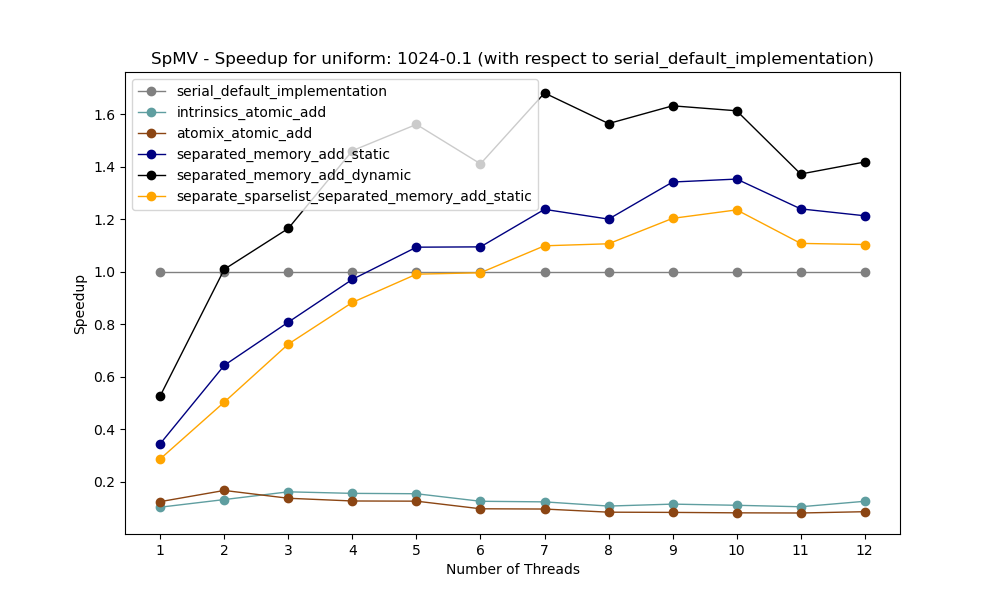
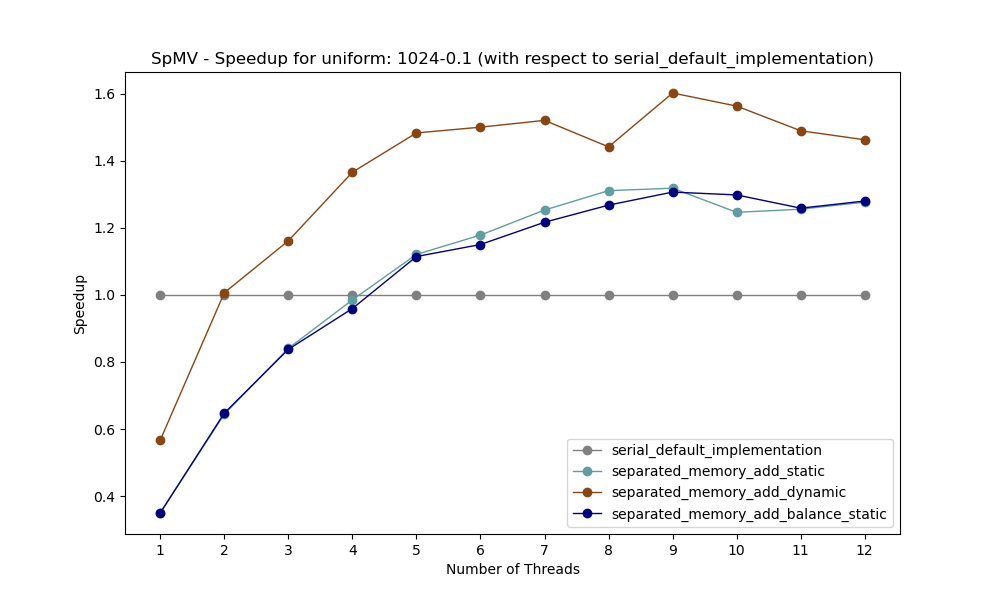
Plot result

diff --git a/parallel/spmv/graph.py b/parallel/spmv/graph.py
@@ -13,11 +13,12 @@ NTHREADS = [i + 1 for i in range(12)]
 DEFAULT_METHOD = "serial_default_implementation"
 METHODS = [
     DEFAULT_METHOD,
-    "intrinsics_atomic_add",
-    "atomix_atomic_add",
+    # "intrinsics_atomic_add",
+    # "atomix_atomic_add",
     "separated_memory_add_static",
     "separated_memory_add_dynamic",
-    "separate_sparselist_separated_memory_add_static",
+    "separated_memory_add_balance_static",
+    # "separate_sparselist_separated_memory_add_static",
 ]
 
 DATASETS = [
